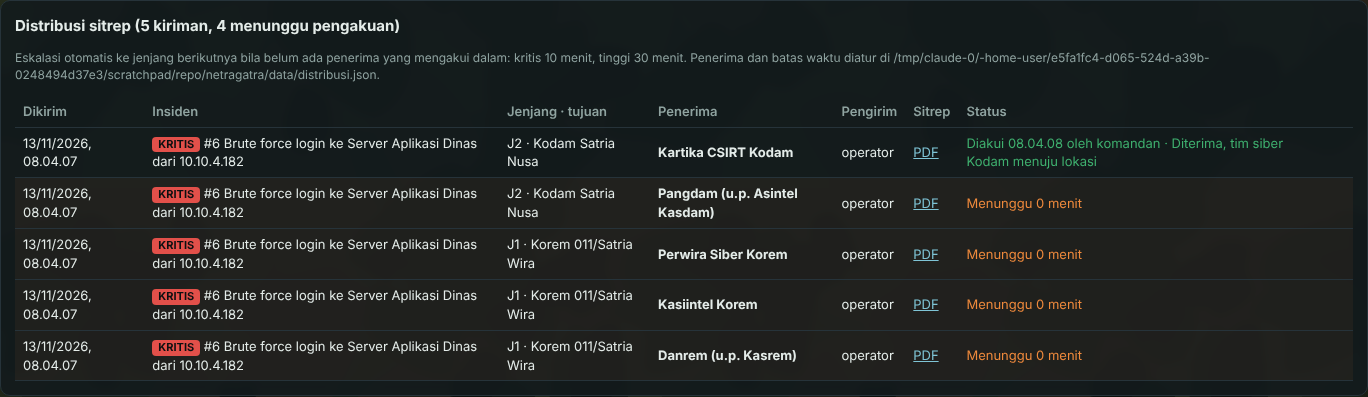
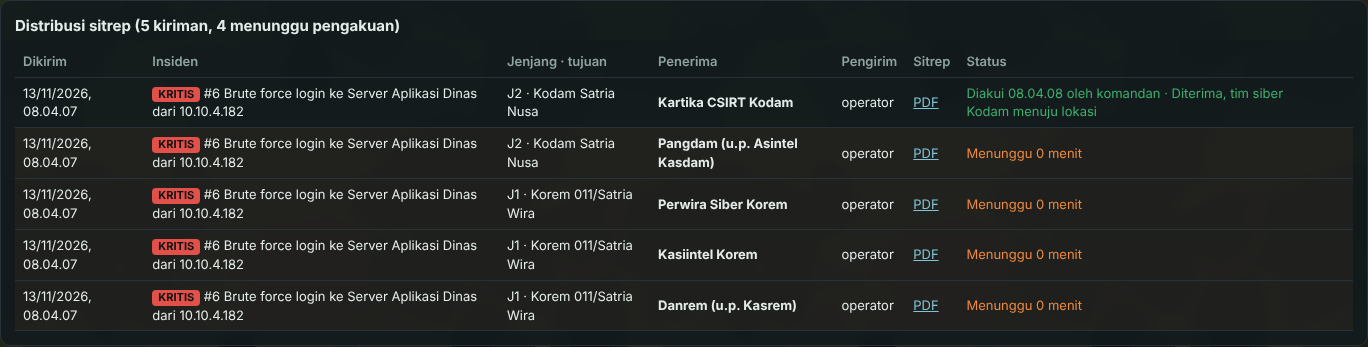
Next path data relatif di UI, screenshot distribusi dan README

diff --git a/backend/app/arsip.py b/backend/app/arsip.py
@@ -235,8 +235,13 @@ def sinkron_awal():
             tulis_audit(r)
 
 
+def tampil_path(p):
+    """Path relatif terhadap folder data, untuk ditampilkan di UI."""
+    return "data/" + os.path.relpath(p, DATA_DIR).replace(os.sep, "/")
+
+
 def daftar():
-    out = {"folder": ARSIP, "aset_file": ASET_FILE}
+    out = {"folder": tampil_path(ARSIP), "aset_file": tampil_path(ASET_FILE)}
     for j in JENIS:
         d = os.path.join(ARSIP, j)
         files = sorted((f for f in os.listdir(d) if not f.endswith(".tmp")), reverse=True) if os.path.isdir(d) else []

diff --git a/backend/app/main.py b/backend/app/main.py
@@ -298,7 +298,7 @@ def kirim_sitrep(iid: int, u=Depends(require_operator)):
 @app.get("/api/distribusi")
 def distribusi_daftar(u=Depends(current_user)):
     c = distribusi.cfg()
-    return {"daftar": distribusi.daftar(), "batas_menit": c.get("batas_menit"), "file": distribusi.FILE}
+    return {"daftar": distribusi.daftar(), "batas_menit": c.get("batas_menit"), "file": arsip.tampil_path(distribusi.FILE)}
 
 
 class Akui(BaseModel):

diff --git a/README.md b/README.md
@@ -108,7 +108,7 @@ flowchart LR
 | `firmware/esp32_dht22/` | Sketch ESP32 sensor suhu dan kelembapan |
 | `tools/` | Jembatan serial ESP32, pengunduh foto contoh, pembuat pola loreng |
 
-## Status jujur: apa yang nyata dan apa yang masih simulasi
+## Status apa yang nyata dan apa yang masih simulasi
 
 | Bagian | Status |
 | --- | --- |
